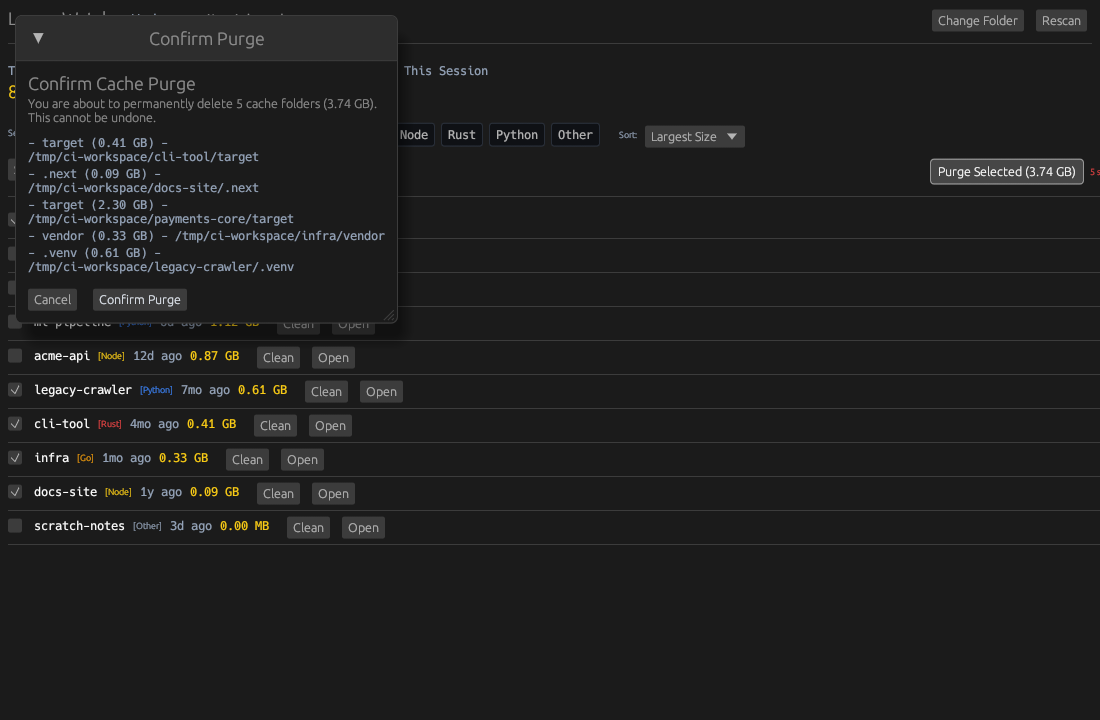
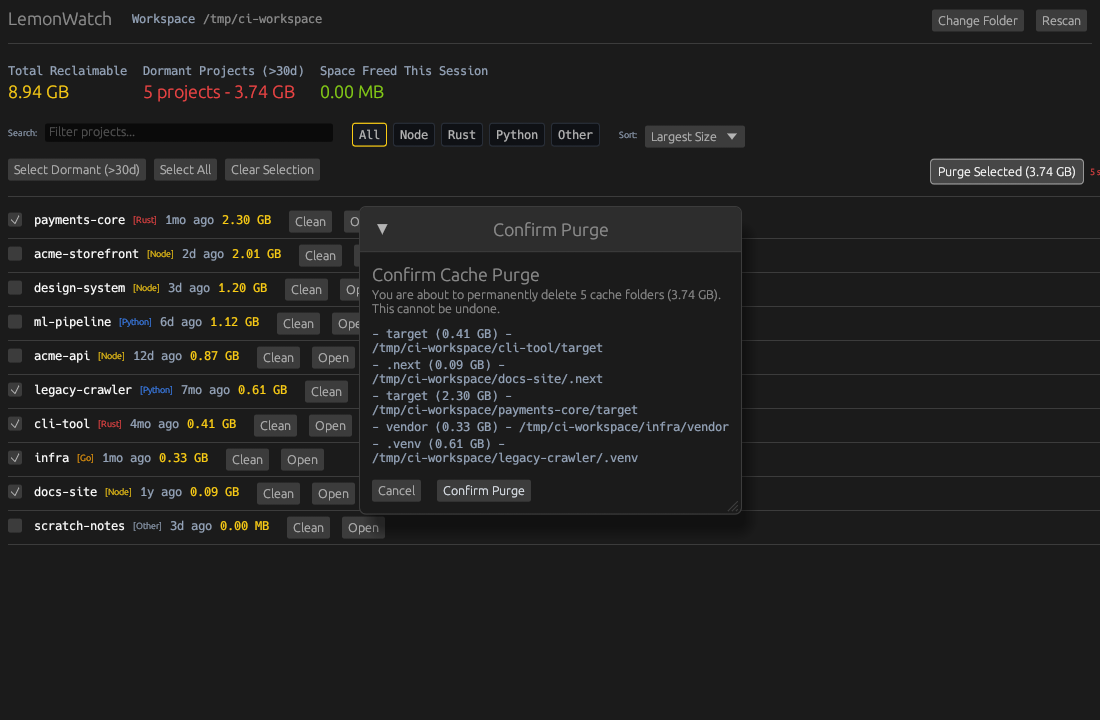
fix(ui): open the purge confirmation centred over the window
Anchoring the dialog to the centre keeps the header, totals and filter bar
visible behind it instead of burying them, and puts a destructive confirm
in a predictable place. Refresh the README capture to match.

🤖 Generated with Codebuff

Changed region(s): [[0.0, 0.0917, 0.68, 0.7028], [0.0309, 0.0, 0.3091, 0.0611], [0.4327, 0.3056, 0.5564, 0.3361]]

diff --git a/src/app.rs b/src/app.rs
@@ -518,6 +518,9 @@ fn render_modal(ctx: &Context, state: &mut AppState) {
     let total: f64 = state.pending_purge.as_ref().unwrap().iter().map(|(_, _, s)| *s).sum::<u64>() as f64 / 1_073_741_824.0;
     let list_len = state.pending_purge.as_ref().unwrap().len();
     egui::Window::new("Confirm Purge")
+        // A destructive confirmation should land in the middle of the window
+        // rather than on top of the header the user just interacted with.
+        .anchor(egui::Align2::CENTER_CENTER, [0.0, 0.0])
         .min_width(360.0)
         .show(ctx, |ui| {
             ui.heading("Confirm Cache Purge");
